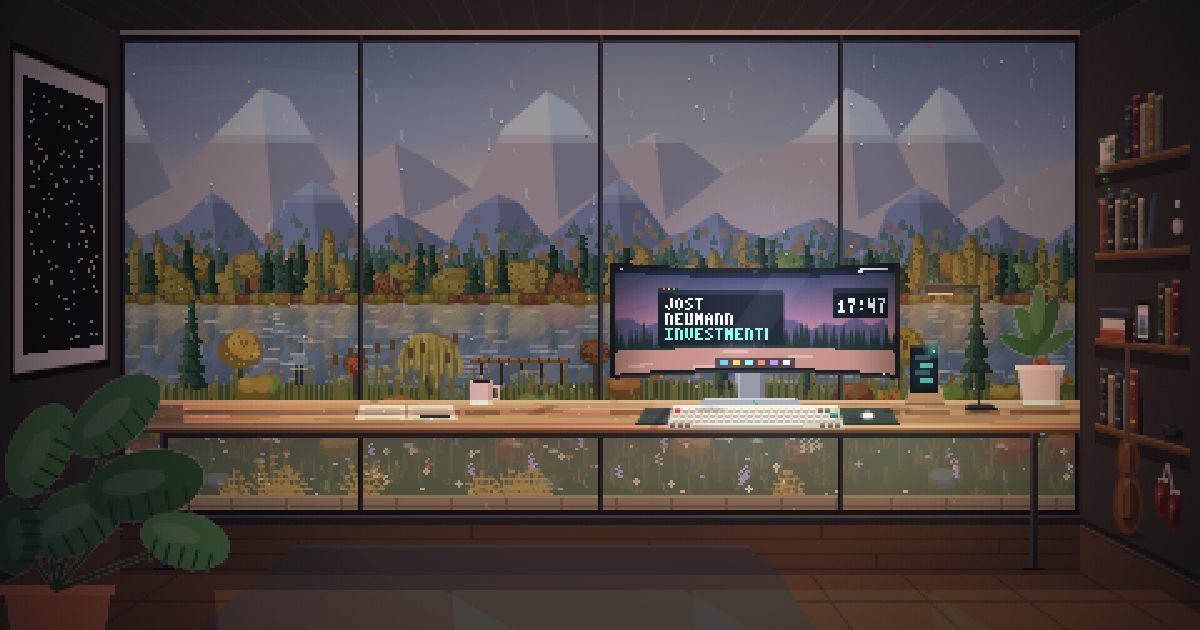
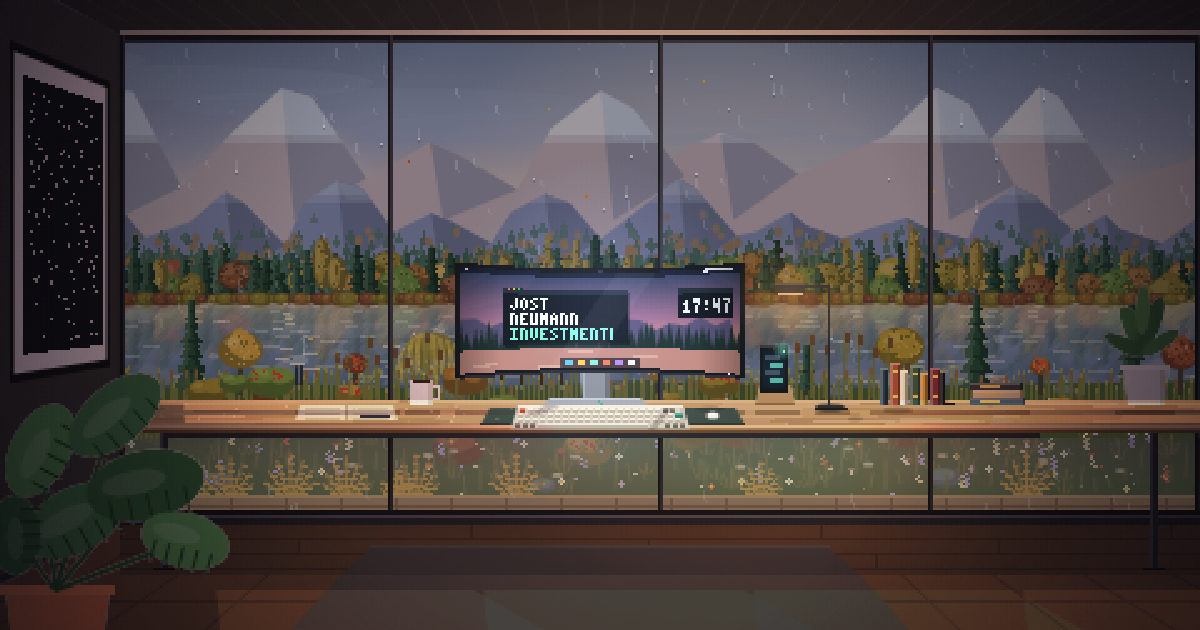
Update preview: glass to the right edge, centred screen, books on the desk open Experience

diff --git a/room.js b/room.js
@@ -7,7 +7,7 @@
 // the shelf (Experience), the notebook (Writing) and the phone (Contact).
 (() => {
 'use strict';
-const W = 384, H = 216, TAU = Math.PI * 2;
+const W = 432, H = 216, TAU = Math.PI * 2;   // the back wall: glass from the left wall to the right edge of the picture
 const VW = 480, VH = 270, OX = 48, OY = 20;   // displayed room (perspective shell) and where the back wall sits in it
 const html = document.documentElement;
 const reduce = matchMedia('(prefers-reduced-motion: reduce)').matches;
@@ -137,22 +137,22 @@ function text(c, s, x, y, col) {
 
 // ---------- hotspots ----------
 const SPOTS = [
-  { id: 'about', label: 'About', n: '01', x: 196, y: 90, w: 116, h: 60, line: '>ABOUT' },
-  { id: 'experience', label: 'Experience', n: '02', x: 390, y: 25, w: 40, h: 166, line: '>EXPERIENCE' },
-  { id: 'contact', label: 'Contact', n: '05', x: 312, y: 121, w: 20, h: 29, line: '>CONTACT' },
-  { id: 'writing', label: 'Writing', n: '03', x: 92, y: 144, w: 46, h: 13, line: '>WRITING' }
+  { id: 'about', label: 'About', n: '01', x: 134, y: 90, w: 116, h: 60, line: '>ABOUT' },
+  { id: 'experience', label: 'Experience', n: '02', x: 300, y: 128, w: 66, h: 21, line: '>EXPERIENCE' },
+  { id: 'contact', label: 'Contact', n: '05', x: 252, y: 121, w: 20, h: 29, line: '>CONTACT' },
+  { id: 'writing', label: 'Writing', n: '03', x: 68, y: 144, w: 46, h: 13, line: '>WRITING' }
 ];
 const NAV_ONLY = [{ id: 'resources', label: 'Resources', n: '04', at: 'writing' }];   // panels without an object of their own; the camera turns to `at`
 const SOURCES = { about: ['about', 'expertise'], experience: ['experience', 'education'], contact: ['contact'], writing: ['writing'], resources: ['resources'] };
 
 // ---------- the 40-inch curved ultrawide (21:9) ----------
-const MON = { x: 198, w: 112, cy: 114, h0: 38, k: .14 };   // the screen is taller at the edges than in the middle
+const MON = { x: 136, w: 112, cy: 114, h0: 38, k: .14 };   // centred in the picture (x 192 on the wall = 240 on screen)   // the screen is taller at the edges than in the middle
 // positions the code layers use; the painted still (STILL_GEO further down) replaces them with its own
 const GEO = {
-  clip: [0, 0, 384, 192], outDY: 0,                         // glass opening and vertical shift of the view
-  panesX: [[3, 95], [98, 191], [194, 287], [290, 381]], glassBottom: 146, sill: 146, desk: [147, 155],
-  lamp: { bulb: [323, 103, 10], glow: [328, 105], light: [328, 108], cone: [[322, 103], [334, 103], [356, 150], [298, 150]], pool: [330, 150] },
-  kbd: [254, 152], phone: [317, 126, 9, 15], mug: [144, 136],
+  clip: [0, 0, W, 192], outDY: 0,                         // glass opening and vertical shift of the view
+  panesX: [[3, 106], [110, 214], [218, 322], [326, 429]], glassBottom: 146, sill: 146, desk: [147, 155],
+  lamp: { bulb: [263, 103, 10], glow: [268, 105], light: [268, 108], cone: [[262, 103], [274, 103], [296, 150], [238, 150]], pool: [270, 150] },
+  kbd: [192, 152], phone: [257, 126, 9, 15], mug: [120, 136],
   clock: { x: 330, y: 22, h: 4.5, m: 7, s: 7.5, cover: 0, face: '#ece6da' }, shadows: true
 };
 const monCol = i => { const u = (i + .5) / MON.w * 2 - 1, h = MON.h0 * (1 + MON.k * u * u); return { top: MON.cy - h / 2, h }; };
@@ -160,7 +160,7 @@ const monCol = i => { const u = (i + .5) / MON.w * 2 - 1, h = MON.h0 * (1 + MON.
 // ---------- glass wall and the view: a full-width forest river panorama (colours from ENV and SEASON) ----------
 // The back wall is glass from the ceiling to the floor (y 0 to 192); the view behind it is drawn here in layers.
 const WIN = { x: 0, y: 0, w: W, h: 192 };
-const PANES = [[3, 3, 92, 186], [98, 3, 93, 186], [194, 3, 93, 186], [290, 3, 91, 186]];   // glass panels between the mullions
+const PANES = [[3, 3, 103, 186], [110, 3, 104, 186], [218, 3, 104, 186], [326, 3, 103, 186]];   // glass panels between the mullions
 const SKY = 100, FAR = 102, NEAR = 106, RIV0 = 106, RIV1 = 142;                      // horizon, far bank, river
 const rnd = mulberry32(11);
 const ridge = (y0, amp, step, seed) => { const q = mulberry32(seed), pts = [[-10, 200]]; for (let x = -10; x <= W + 10; x += step) pts.push([x, y0 - q() * amp]); pts.push([W + 10, 200]); return pts; };
@@ -216,11 +216,11 @@ const BANK_TREES = [
   { t: 'spruce', x: 28, h: 60, w: 10 }, { t: 'oak', x: 48, h: 46, r: 13, bloom: 1 }, { t: 'rowan', x: 94, h: 30, r: 7 },
   { t: 'willow', x: 124, h: 44, r: 15 }, { t: 'alder', x: 190, h: 40, r: 9 }, { t: 'poplar', x: 214, h: 56, r: 5 },
   { t: 'spruce', x: 240, h: 34, w: 6 }, { t: 'spruce', x: 274, h: 30, w: 5 }, { t: 'oak', x: 312, h: 50, r: 14 },
-  { t: 'spruce', x: 342, h: 64, w: 10 }, { t: 'rowan', x: 368, h: 26, r: 6 }
+  { t: 'spruce', x: 342, h: 64, w: 10 }, { t: 'rowan', x: 368, h: 26, r: 6 }, { t: 'spruce', x: 404, h: 56, w: 9 }, { t: 'oak', x: 424, h: 42, r: 11 }
 ].map(t => ({ ...t, h: Math.round(t.h * .6), w: t.w && t.w * .7, r: t.r && Math.max(4, t.r * .7) }));   // kept low so the view stays open
 const EDGE = []; for (let x = 2; x < W; x += 3 + vr() * 7) EDGE.push({ x, h: 5 + vr() * 7, c: vr() });   // flowers at the water's edge
 const LILIES = []; for (const [cx, n] of [[100, 7], [262, 9], [330, 5]]) for (let i = 0; i < n; i++) LILIES.push({ x: cx + (vr() - .5) * 30, y: 132 + vr() * 7, f: vr() < .35 });
-const ROCKS = [[8, 143, 5], [62, 142, 4], [134, 144, 6], [200, 141, 3], [288, 143, 5], [378, 142, 4], [40, 178, 6], [170, 180, 5], [330, 177, 7]];
+const ROCKS = [[8, 143, 5], [62, 142, 4], [134, 144, 6], [200, 141, 3], [288, 143, 5], [378, 142, 4], [414, 143, 5], [40, 178, 6], [170, 180, 5], [330, 177, 7]];
 const TUFTS = []; for (let i = 0; i < 110; i++) TUFTS.push({ x: vr() * W, y: 150 + vr() * 34, h: 3 + vr() * 6 }); TUFTS.sort((a, b) => a.y - b.y);
 const MEADOW = []; for (let i = 0; i < 150; i++) MEADOW.push({ x: vr() * W, y: 158 + vr() * 26, t: vr(), h: 4 + vr() * 7, c: (vr() * 5) | 0 }); MEADOW.sort((a, b) => a.y - b.y);
 
@@ -582,7 +582,7 @@ function drawRoom(c) {
   // floor-to-ceiling glass: everything above the floor stays transparent except the frame
   const frame = '#1c1c20', edge = '#3a3a42';
   r(c, 0, 0, W, 2, frame); r(c, 0, 2, W, 1, edge);
-  for (const x of [0, 95, 191, 287, 382]) { r(c, x, 0, 2, 192, frame); r(c, x + 1, 0, 1, 192, edge); }
+  for (const x of [0, 107, 215, 323, 430]) { r(c, x, 0, 2, 192, frame); r(c, x + 1, 0, 1, 192, edge); }
   r(c, 0, 190, W, 2, frame);
 }
 
@@ -592,25 +592,27 @@ function drawDesk(c) {
   r(c, 0, 192, W, 4, '#2a2a2e'); r(c, 0, 192, W, 1, '#5a5a62');                 // threshold under the glass
   r(c, 0, 196, W, 20, '#57402f');
   for (let y = 201, i = 0; y < 216; y += 6, i++) { r(c, 0, y, W, 1, '#46332a'); for (let x = (i * 71) % 120; x < W; x += 140) r(c, x, y - 5, 1, 5, '#46332a'); }
-  poly(c, [[70, 204], [250, 204], [264, 216], [56, 216]], '#45413e'); r(c, 68, 204, 184, 1, '#524d49');
+  poly(c, [[102, 204], [282, 204], [296, 216], [88, 216]], '#45413e'); r(c, 100, 204, 184, 1, '#524d49');   // centred under the screen
   const under = c.createLinearGradient(0, 161, 0, 204);
   under.addColorStop(0, 'rgba(20,10,6,.5)'); under.addColorStop(1, 'rgba(20,10,6,0)');
   c.fillStyle = under; c.fillRect(0, 161, W, 43);
   // slim black steel frame (no drawers)
   r(c, 16, 159, 352, 2, '#2a2a2e');
-  for (const lx2 of [16, 364]) { r(c, lx2, 159, 3, 54, '#2a2a2e'); r(c, lx2, 159, 1, 54, '#4a4a52'); r(c, lx2 - 3, 213, 9, 1, '#18181c'); }
+  for (const lx2 of [16, 412]) { r(c, lx2, 159, 3, 54, '#2a2a2e'); r(c, lx2, 159, 1, 54, '#4a4a52'); r(c, lx2 - 3, 213, 9, 1, '#18181c'); }
   // ---------- desk top: light oak, thin front edge ----------
-  poly(c, [[6, 146], [384, 146], [384, 156], [0, 156]], '#bf9468');
+  poly(c, [[6, 146], [W, 146], [W, 156], [0, 156]], '#bf9468');
   const gr = mulberry32(21);
   for (let i = 0; i < 60; i++) { const y = 147 + (gr() * 9 | 0), x = gr() * W, w = 10 + gr() * 50; r(c, x, y, w, 1, gr() < .5 ? '#c9a078' : '#b0855a'); }
   r(c, 0, 146, W, 1, '#d8ae80');
   r(c, 0, 156, W, 3, '#a47a52'); r(c, 0, 156, W, 1, '#e0b88a'); r(c, 0, 158, W, 1, '#6a4a30');
   // shadows on the desk
-  for (const [x, w] of [[94, 42], [138, 14], [196, 116], [314, 18], [338, 14], [356, 24]]) r(c, x, 150, w, 2, 'rgba(40,20,10,.3)');
+  for (const [x, w] of [[70, 42], [114, 14], [134, 116], [254, 18], [278, 14], [300, 64], [398, 24]]) r(c, x, 150, w, 2, 'rgba(40,20,10,.3)');
+  c.save(); c.translate(-60, 0);                                                    // lamp: right of the screen
   // minimal desk lamp on the right: black stem, arm and a small head over the phone
   ell(c, 344, 149, 6, 1.6, '#2a2a2e'); r(c, 338, 149, 13, 1, '#18181c');
   r(c, 343, 100, 1, 49, '#2a2a2e'); r(c, 330, 100, 14, 1, '#2a2a2e');
   r(c, 322, 99, 12, 4, '#2a2a2e'); r(c, 322, 99, 12, 1, '#4a4a52');
+  c.restore(); c.save(); c.translate(-24, 0);                                      // notebook and mug: left of the screen
   // notebook and pen
   poly(c, [[96, 148], [115, 148], [115, 154], [94, 154]], '#e6dac0');
   poly(c, [[115, 148], [133, 148], [135, 154], [115, 154]], '#ded1b4');
@@ -621,12 +623,16 @@ function drawDesk(c) {
   r(c, 140, 138, 9, 10, '#e9e4da'); r(c, 147, 138, 2, 10, '#cfc8bc');
   r(c, 149, 140, 3, 1, '#e9e4da'); r(c, 151, 140, 1, 6, '#e9e4da'); r(c, 149, 145, 3, 1, '#e9e4da');
   r(c, 141, 138, 7, 1, '#3a2418');
+  c.restore();
   // monitor: 40-inch curved ultrawide on a slim aluminium stand
+  c.save(); c.translate(-62, 0);                                                    // stand, mat, keyboard and mouse follow the screen
   poly(c, [[246, 130], [258, 130], [257, 146], [247, 146]], '#8c9098'); r(c, 256, 130, 2, 16, '#6c7078'); r(c, 247, 130, 1, 16, '#a8acb4');
   poly(c, [[234, 145], [270, 145], [274, 149], [230, 149]], '#a4a8b0'); r(c, 234, 145, 36, 1, '#c4c8d0'); r(c, 230, 148, 44, 1, '#70747c');
+  c.restore();
   for (let i = -2; i < MON.w + 2; i++) { const { top, h } = monCol(clamp(i, 0, MON.w - 1)); r(c, MON.x + i, top - 1.5, 1, h + 3, '#16181c'); }
   for (let i = 0; i < MON.w; i++) { const { top, h } = monCol(i); r(c, MON.x + i, top + h + 1, 1, 1, '#2c2f36'); }
   r(c, MON.x + MON.w / 2 - 1, MON.cy - MON.h0 / 2 - 1.5, 2, 1, '#30343a');
+  c.save(); c.translate(-62, 0);
   // desk mat
   poly(c, [[210, 149], [308, 149], [312, 156], [206, 156]], '#3e4c46'); r(c, 206, 155, 106, 1, '#2e3a35');
   // retro mechanical keyboard: beige case, sculpted two-tone keycaps, accent keys and a coiled cable
@@ -650,14 +656,31 @@ function drawDesk(c) {
   }
   // minimal mouse
   ell(c, 299, 152, 2.6, 1.6, '#ecebe6'); r(c, 298, 151, 2, 1, '#ffffff');
+  c.restore(); c.save(); c.translate(-60, 0);                                      // phone: right of the screen
   // phone on an oak charging dock, right of the screen (contact)
   poly(c, [[314, 148], [330, 148], [328, 140], [316, 140]], '#b48a5e'); r(c, 314, 147, 16, 1, '#8a6440');
   r(c, 316, 124, 11, 19, '#141518'); r(c, 316, 124, 11, 1, '#34363c'); r(c, 317, 126, 9, 15, '#0e1014');
   r(c, 321, 125, 1, 1, '#2a2c30');
+  c.restore();
+  // a few books on the desk, held by a black bookend, and a small stack with a stone (they open Experience)
+  for (const [x, w, h, col] of [[304, 3, 15, '#2f3a4e'], [307.5, 4, 17, '#9c4a38'], [312, 3, 14, '#ddd3c0'], [315.5, 4, 16, '#3d5243'], [320, 3, 13, '#b98a3e'], [323.5, 4, 15, '#6e2e38']]) {
+    r(c, x + w, 150 - h, 2, h - 2, 'rgba(20,12,8,.22)');                                   // shadow beside the spine
+    r(c, x, 148 - h, w, h, col); r(c, x, 148 - h, 1, h, mix(col, '#ffffff', .22)); r(c, x + w - 1, 148 - h, 1, h, mix(col, '#000000', .35));
+    r(c, x, 148 - h, w, 1, mix(col, '#ffffff', .32));
+    if (w > 3) { r(c, x + 1, 151 - h, w - 2, 1, '#d8b85a'); r(c, x + 1, 144, w - 2, 1, '#d8b85a'); }
+  }
+  r(c, 328, 135, 2, 13, '#141416'); r(c, 328, 147, 6, 1, '#141416'); r(c, 328, 135, 1, 13, '#3a3a40');   // bookend
+  for (const [y, w, col, dx] of [[145, 22, '#4a5a6e', 0], [142, 20, '#c9b48e', 1], [139, 21, '#3a3a3e', -.5]]) {
+    r(c, 340 + dx, y, w, 3, col); r(c, 340 + dx, y, w, 1, mix(col, '#ffffff', .25)); r(c, 340 + dx + w - 1, y, 1, 3, mix(col, '#000000', .3));
+    r(c, 340 + dx + 4, y + 1, 8, 1, '#d8b85a');
+  }
+  ell(c, 351, 137.6, 3, 1.6, '#7e7e78'); ell(c, 350.2, 137, 1.6, .8, '#a8a8a0');
+  c.save(); c.translate(42, 0);                                                     // plant: at the new right end of the desk
   // plant in a white ceramic pot
   const LEAF = [[364, 118, 4, 11, -.5, '#4a7a46'], [370, 116, 4, 12, .4, '#3a6438'], [360, 124, 3, 9, -1.1, '#3a6438'], [374, 123, 3, 9, 1.0, '#4a7a46'], [367, 110, 3, 10, .05, '#5a8a50']];
   for (const [x, y, a, b, rot, col] of LEAF) ell(c, x, y, a, b, col, rot);
   poly(c, [[359, 133], [377, 133], [375, 148], [361, 148]], '#e2ddd3'); r(c, 358, 132, 20, 2, '#f0ece4'); r(c, 374, 134, 2, 14, '#c8c2b6');
+  c.restore();
 }
 
 // ---------- light map ----------
@@ -666,7 +689,7 @@ function drawLight(c) {
   c.globalCompositeOperation = 'source-over';
   c.fillStyle = E.ambient; c.fillRect(0, 0, W, H);
   c.globalCompositeOperation = 'lighter';
-  glow(c, 192, 70, 260, E.winCol, E.winA * 1.1);               // sky light through the glass wall
+  glow(c, W / 2, 70, 280, E.winCol, E.winA * 1.1);             // sky light through the glass wall
   glow(c, 90, 104, 90, '#4a8070', .18);
   glow(c, ...GEO.lamp.light, 140, '#ffa860', .8 * E.lamp);       // desk lamp
   glow(c, ...GEO.lamp.pool, 60, '#ffcf90', .45 * E.lamp);
@@ -686,7 +709,7 @@ function drawLight(c) {
     lg.addColorStop(0, rgba('#ffc080', .35 * E.lamp)); lg.addColorStop(1, rgba('#ffc080', .15 * E.lamp));
     const cn = GEO.lamp.cone; c.fillStyle = lg; c.beginPath(); c.moveTo(...cn[0]); for (const q of cn.slice(1)) c.lineTo(...q); c.fill();
   }
-  glow(c, 200, 112, 170, '#b07050', .22 + .2 * E.lamp);          // warm fill
+  glow(c, 192, 112, 180, '#b07050', .22 + .2 * E.lamp);          // warm fill, centred on the screen
   c.globalCompositeOperation = 'source-over';
 }
 function drawVignette() {
@@ -925,8 +948,8 @@ function drawShellBack(c) {
   poly(c, [[0, -6], [VW, -6], [OX + W, OY], [OX, OY]], '#2e2c2a');
   for (let x = OX; x <= OX + W; x += 12) strokePath(c, [[x, OY], [toY(x, OY, -6), -6]], '#373431');
   r(c, OX, OY - 2, W, 2, '#b8ae9c');
-  // smooth plaster side walls with a soft shadow into the corners and a thin skirting
-  for (const side of [-1, 1]) {
+  // the smooth plaster left wall with a soft shadow into the corner and a thin skirting
+  for (const side of [-1]) {                                                       // only the left wall; on the right the glass runs to the edge
     const x0 = side < 0 ? OX : OX + W, xe = side < 0 ? 0 : VW;
     poly(c, [[xe, toX(x0, OY, xe)], [x0, OY], [x0, OY + 196], [xe, toX(x0, OY + 196, xe)]], '#3a3735');
     for (let k = 0; k < 6; k++) { const xx = x0 - side * k; strokePath(c, [[xx, toX(x0, OY, xx)], [xx, toX(x0, OY + 196, xx)]], `rgba(0,0,0,${.22 - k * .033})`); }
@@ -938,8 +961,8 @@ function drawShellBack(c) {
   for (let x = -260; x <= VW + 260; x += 30) strokePath(c, [[x, OY + 196], [toY(x, OY + 196, VH), VH]], '#46332a');
   for (const y of [OY + 226, OY + 244]) r(c, 0, y, VW, 1, '#46332a');
   const ry = OY + 216, rb = 262;
-  poly(c, [[OX + 56, ry], [OX + 264, ry], [toY(OX + 264, ry, rb), rb], [toY(OX + 56, ry, rb), rb]], '#45413e');
-  r(c, toY(OX + 56, ry, rb), rb, toY(OX + 264, ry, rb) - toY(OX + 56, ry, rb), 1, '#33302e');
+  poly(c, [[OX + 88, ry], [OX + 296, ry], [toY(OX + 296, ry, rb), rb], [toY(OX + 88, ry, rb), rb]], '#45413e');
+  r(c, toY(OX + 88, ry, rb), rb, toY(OX + 296, ry, rb) - toY(OX + 88, ry, rb), 1, '#33302e');
   // left wall: a framed print, drawn live over the paper by drawArtLive(): by default dots that move between data shapes
   // (dots.js), with ?art=topo an animated topographic map (topo.js), both made as OpenFilm pages; ?art=hiroshige and
   // ?art=bulb show the earlier static prints.
@@ -992,87 +1015,6 @@ function drawShellBack(c) {
     }
   }
   ART = at(cx, cy);
-  // right wall: floating oak shelves with a curated mix of books and objects (they open Experience)
-  const yAt = (x, f) => { const t = toX(OX + W, OY, x), b = toX(OX + W, OY + 194, x); return t + (b - t) * f; };
-  const xa = OX + W + 6, xb = VW - 4;
-  const quad = (x0, x1, f0, f1, col) => poly(c, [[x0, yAt(x0, f0)], [x1, yAt(x1, f0)], [x1, yAt(x1, f1)], [x0, yAt(x0, f1)]], col);
-  const BOOK = ['#2f3a4e', '#3d5243', '#b98a3e', '#9c4a38', '#ddd3c0', '#3a3a3e', '#8a9a80', '#6e2e38', '#c9b48e', '#4a5a6e'];
-  // light comes from the window (left): each spine is rounded from a lit edge to a shaded one, with cloth grain
-  const book = (x, w, h, f, col, band) => {
-    quad(x + w, x + w + 1.4, f - h + .012, f, 'rgba(10,8,6,.22)');                  // soft shadow on the wall
-    const n = Math.max(3, Math.round(w / .5));
-    for (let i = 0; i < n; i++) {
-      const u = (i + .5) / n, k = u < .3 ? mix(col, '#ffffff', .24 * (1 - u / .3)) : mix(col, '#000000', .42 * ((u - .3) / .7) ** 1.3);
-      quad(x + w * i / n, x + w * (i + 1) / n + .06, f - h, f, k);
-    }
-    for (let j = 0; j < 14; j++) { const fx = x + .2 + hash(x * 97 + j) * (w - .5), ff = f - h + hash(x * 31 + j * 7) * h; r(c, fx, yAt(fx, ff), 1, 1, rgba(hash(j * 3 + x) < .5 ? '#000000' : '#ffffff', .08)); }
-    quad(x, x + w, f - h, f - h + .006, mix(col, '#ffffff', .32));                  // top edge catching the light
-    quad(x, x + w, f - .009, f, 'rgba(0,0,0,.22)');                                 // contact shade on the shelf
-    if (band && w > 2.4) {
-      quad(x + .4, x + w - .9, f - h * .8, f - h * .8 + .005, '#d8b85a'); quad(x + .4, x + w - .9, f - h * .2, f - h * .2 + .005, '#d8b85a');
-      quad(x + .5, x + w - 1, f - h * .62, f - h * .44, mix(col, '#000000', .35)); quad(x + .7, x + w - 1.2, f - h * .56, f - h * .54, '#c8a84e');   // title label
-    }
-    return x + w + .3;
-  };
-  const row = (x, f, specs) => { for (const [w, h, ci, band] of specs) x = book(x, w, h, f, BOOK[ci], band); return x; };
-  const leaning = (x, w, h, f, col) => { poly(c, [[x, yAt(x, f)], [x + w, yAt(x + w, f)], [x + w + 3, yAt(x + w + 3, f - h)], [x + 3, yAt(x + 3, f - h)]], col);
-    poly(c, [[x + w - .8, yAt(x + w - .8, f)], [x + w, yAt(x + w, f)], [x + w + 3, yAt(x + w + 3, f - h)], [x + w + 2.2, yAt(x + w + 2.2, f - h)]], mix(col, '#000000', .3)); };
-  const flat = (x, f, specs) => specs.forEach(([L, ci, dx], j) => { quad(x + dx, x + dx + L, f - (j + 1) * .02, f - j * .02, BOOK[ci]); quad(x + dx, x + dx + L, f - (j + 1) * .02, f - (j + 1) * .02 + .004, mix(BOOK[ci], '#ffffff', .25)); });
-  const shelf = f => {
-    quad(xa, xb, f + .014, f + .04, 'rgba(0,0,0,.3)');                              // shadow under the board
-    quad(xa, xb, f, f + .014, '#7a5638'); quad(xa, xb, f + .009, f + .014, '#5e4129');   // front face, darker lower half
-    for (let k = 0; k < 7; k++) { const gx2 = xa + hash(f * 1000 + k) * (xb - xa - 8); quad(gx2, gx2 + 3 + hash(k + f * 99) * 6, f + .005 + (k % 2) * .003, f + .007 + (k % 2) * .003, '#6a4a30'); }   // grain
-    quad(xa, xb, f, f + .003, '#b08454');                                           // lit top edge
-  };
-  // a rounded ceramic: dark body, lit side, highlight
-  const pot = (x, y, rx, ry, col) => { ell(c, x, y, rx, ry, mix(col, '#000000', .3)); ell(c, x - rx * .2, y - ry * .05, rx * .78, ry * .9, col); ell(c, x - rx * .45, y - ry * .2, rx * .28, ry * .5, mix(col, '#ffffff', .4)); };
-  const F = [.28, .45, .62, .79];
-  F.forEach(shelf);
-  // top shelf: a trailing plant, then a run of hardbacks
-  quad(xa + 2, xa + 8, F[0] - .05, F[0], '#d8d2c8'); quad(xa + 6, xa + 8, F[0] - .05, F[0], '#b4aca0'); quad(xa + 2, xa + 3.4, F[0] - .05, F[0], '#ece8e0');
-  quad(xa + 1.6, xa + 8.4, F[0] - .054, F[0] - .046, '#f2eee6'); quad(xa + 2, xa + 8, F[0] - .009, F[0], 'rgba(0,0,0,.2)');
-  for (let k = 0; k < 11; k++) { const x = xa + 3 + (k % 3) * 2, y = yAt(x, F[0] - .05 + k * .02), col = k % 3 === 0 ? '#5a9a58' : k % 3 === 1 ? '#3e7046' : '#2f5a38'; ell(c, x + Math.sin(k) * 1.2, y, 1.6, 1.1, col); r(c, x + Math.sin(k) * 1.2 - 1, y - .6, 1, 1, '#7ab870'); }
-  row(xa + 12, F[0], [[2.6, .1, 0, 1], [3.2, .115, 7, 1], [2.2, .095, 4, 0], [3, .11, 2, 1], [2.4, .1, 6, 0]]);
-  // second shelf: a long run, one book leaning, a small ceramic vase
-  const e1 = row(xa + 2, F[1], [[2.4, .1, 3, 1], [3, .112, 0, 1], [2.2, .098, 8, 0], [3.4, .116, 1, 1], [2.6, .104, 5, 1], [2.2, .094, 4, 0]]);
-  leaning(e1 + .2, 2.6, .1, F[1], BOOK[9]);
-  const vx = xb - 5; ell(c, vx + 1.5, yAt(vx, F[1] - .03), 1.6, 3, 'rgba(10,8,6,.2)'); pot(vx, yAt(vx, F[1] - .035), 2.2, 3.3, '#cfc6b6');
-  r(c, vx - .8, yAt(vx, F[1] - .078), 1.8, 1.6, '#bfb6a6'); r(c, vx - .8, yAt(vx, F[1] - .078), 1, 1.6, '#e8e2d6'); r(c, vx - 1.1, yAt(vx, F[1] - .082), 2.4, .8, '#ece6da');
-  // third shelf: a horizontal stack, a framed photo, three upright books
-  flat(xa + 2, F[2], [[11, 3, 0], [10, 4, .6], [12, 0, -.4]]);
-  quad(xa + 22, xa + 23.4, F[2] - .072, F[2], 'rgba(10,8,6,.22)');
-  quad(xa + 16, xa + 22, F[2] - .075, F[2], '#141416'); quad(xa + 16, xa + 16.6, F[2] - .075, F[2], '#3a3a40');
-  quad(xa + 16.8, xa + 21.2, F[2] - .067, F[2] - .008, '#f4f0ea'); quad(xa + 16.8, xa + 21.2, F[2] - .067, F[2] - .062, '#c8c2b6');
-  quad(xa + 17.4, xa + 20.6, F[2] - .05, F[2] - .014, '#9ab4c8'); quad(xa + 17.4, xa + 20.6, F[2] - .028, F[2] - .014, '#5a7a68');
-  poly(c, [[xa + 17.4, yAt(xa + 17.4, F[2] - .028)], [xa + 18.8, yAt(xa + 18.8, F[2] - .046)], [xa + 20.6, yAt(xa + 20.6, F[2] - .03)]], '#6a7e96');
-  row(xa + 25, F[2], [[2.8, .108, 1, 1], [2.4, .1, 2, 0], [3.2, .114, 7, 1]]);
-  // bottom shelf: books held by a black bookend, and a low ceramic bowl
-  const e3 = row(xa + 2, F[3], [[3, .112, 5, 1], [2.4, .1, 8, 0], [2.8, .108, 0, 1], [2.2, .096, 6, 0], [3.4, .118, 3, 1]]);
-  quad(e3 + .3, e3 + 1.3, F[3] - .07, F[3], '#141416');
-  const bx = xb - 7; ell(c, bx + 1.5, yAt(bx, F[3] - .01), 4, 1.2, 'rgba(10,8,6,.25)'); ell(c, bx, yAt(bx, F[3] - .018), 4, 2, '#1e1e22');
-  ell(c, bx - 1, yAt(bx, F[3] - .02), 2.6, 1.4, '#34343a'); ell(c, bx, yAt(bx, F[3] - .03), 3.6, .9, '#5a5a62'); ell(c, bx + .4, yAt(bx, F[3] - .03), 2.8, .5, '#2a2a2e');
-  // below the shelves, an acoustic guitar stands against the wall in the shade
-  const gx = xa + 13, gy = f => yAt(gx, f), gs = (gy(1) - gy(0)) / 1;                  // wall height in pixels here
-  ell(c, gx + 1, gy(.985), 7, 1.2, 'rgba(0,0,0,.25)');                                  // contact shadow on the floor
-  ell(c, gx, gy(.925), 6, gs * .058, '#6e4528'); ell(c, gx, gy(.84), 4.6, gs * .042, '#6e4528');   // lower and upper bout
-  ell(c, gx - 1.2, gy(.915), 3.4, gs * .04, '#84552f'); ell(c, gx - .8, gy(.835), 2.4, gs * .028, '#84552f');   // lit spruce top
-  ell(c, gx + 1.4, gy(.93), 3.4, gs * .045, 'rgba(30,16,8,.45)'); ell(c, gx + 1, gy(.845), 2.4, gs * .03, 'rgba(30,16,8,.4)');   // shaded right side of the body
-  ell(c, gx, gy(.872), 1.9, 1.9, 'rgba(232,210,170,.2)'); ell(c, gx, gy(.872), 1.5, 1.5, '#24170f');   // rosette and sound hole
-  r(c, gx - 2, gy(.95), 4, 1, '#2e1e14');                                               // bridge
-  r(c, gx - 1, gy(.62), 2, gy(.81) - gy(.62), '#3e281a'); r(c, gx - 1, gy(.62), 1, gy(.81) - gy(.62), '#4c3322');   // neck
-  r(c, gx - 1.5, gy(.575), 3, gy(.62) - gy(.575), '#2e1e14');                          // headstock
-  for (const f of [.585, .605]) { r(c, gx - 2.5, gy(f), 1, 1, '#9a9286'); r(c, gx + 1.5, gy(f), 1, 1, '#9a9286'); }   // tuners
-  for (const dx of [-.5, .5]) strokePath(c, [[gx + dx, gy(.95)], [gx + dx, gy(.62)]], 'rgba(220,214,200,.35)', .5);   // strings
-  // a pair of boxing gloves hung by their laces from the underside of the bottom shelf
-  const gl = (x, f) => [x, yAt(x, f)], [px0, py0] = gl(xb - 9, F[3] + .036);
-  for (const [dx, f1] of [[-2.5, F[3] + .075], [2.5, F[3] + .09]]) { const [lx, ly] = gl(xb - 9 + dx, f1); strokePath(c, [[px0, py0], [lx, ly]], '#cfc6b6'); }
-  for (const [x, f, col] of [[xb - 11.5, F[3] + .09, '#7a2a26'], [xb - 6.5, F[3] + .105, '#6c2522']]) {
-    const [cx2, cy2] = gl(x, f), cs = yAt(x, .03) - yAt(x, 0);
-    r(c, cx2 - 2, cy2 - cs * .9, 4, cs * .35, '#d8d0c2');                               // white cuff
-    ell(c, cx2, cy2 + cs * .4, 2.8, cs * 1.1, col); ell(c, cx2 - .8, cy2 + cs * .2, 1.2, cs * .6, mix(col, '#ffffff', .18));   // glove and its sheen
-    ell(c, cx2 + 2, cy2 + cs * .1, 1.1, cs * .45, mix(col, '#000000', .2));             // the thumb
-    ell(c, cx2 + .9, cy2 + cs * .75, 1.6, cs * .55, mix(col, '#000000', .32)); r(c, cx2 - 1.4, cy2 + cs * .05, 1, 1, mix(col, '#ffffff', .45));   // shade and a glint
-  }
 }
 
 function drawShellFront(c) {
@@ -1096,7 +1038,7 @@ function drawShellLight(c) {
   const E = ENV;
   c.globalCompositeOperation = 'source-over'; c.fillStyle = E.ambient; c.fillRect(0, 0, VW, VH);
   c.globalCompositeOperation = 'lighter';
-  glow(c, OX + 192, OY + 80, 320, E.winCol, E.winA * 1.05);
+  glow(c, OX + W / 2, OY + 80, 340, E.winCol, E.winA * 1.05);
   glow(c, OX + GEO.lamp.light[0], OY + GEO.lamp.light[1], 180, '#ffa860', .75 * E.lamp);
   glow(c, OX + MON.x + MON.w / 2, OY + 112, 120, '#6a88c0', .3);
   glow(c, VW / 2, 160, 280, '#b07050', .2 + .2 * E.lamp);
@@ -1151,7 +1093,7 @@ function layout() {
   s0 = portrait ? Math.max(.7, Math.min(vw / 262, (vh - HEAD - 380 - fitShrink) / VH)) : Math.max(vw / VW, vh / VH);
   document.documentElement.style.setProperty('--band-bottom', Math.round(HEAD + VH * s0) + 'px');
   stackPortrait();
-  if (!openId) { goal.fx = portrait ? 215 + OX : VW / 2; goal.fy = portrait ? 128 : 132; }
+  if (!openId) { goal.fx = VW / 2; goal.fy = portrait ? 128 : 132; }
   else aim(openId);
 }
 // portrait: the section buttons and the disclaimer follow the intro, whatever its height
@@ -1224,7 +1166,7 @@ function closePanel() {
   panel.classList.remove('open'); panel.setAttribute('aria-hidden', 'true');
   document.body.classList.remove('panel-open');
   document.querySelectorAll('[data-go]').forEach(a => a.classList.remove('on'));
-  goal = { fx: portrait ? 215 + OX : VW / 2, fy: portrait ? 128 : 132, z: 1, p: 0 }; if (reduce) cur = { ...goal };
+  goal = { fx: VW / 2, fy: portrait ? 128 : 132, z: 1, p: 0 }; if (reduce) cur = { ...goal };
 }
 const lofi = () => html.classList.contains('lofi');
 function sync() { if (lofi()) return; const id = location.hash.slice(1); if (SOURCES[id]) openPanel(id); else closePanel(); }

diff --git a/index.html b/index.html
@@ -275,6 +275,6 @@
 
   <script src="topo.js?v=2026-10-23"></script>
   <script src="dots.js?v=2026-10-23"></script>
-  <script src="room.js?v=2026-10-23-rain"></script>
+  <script src="room.js?v=2026-10-23-wide2"></script>
 </body>
 </html>
